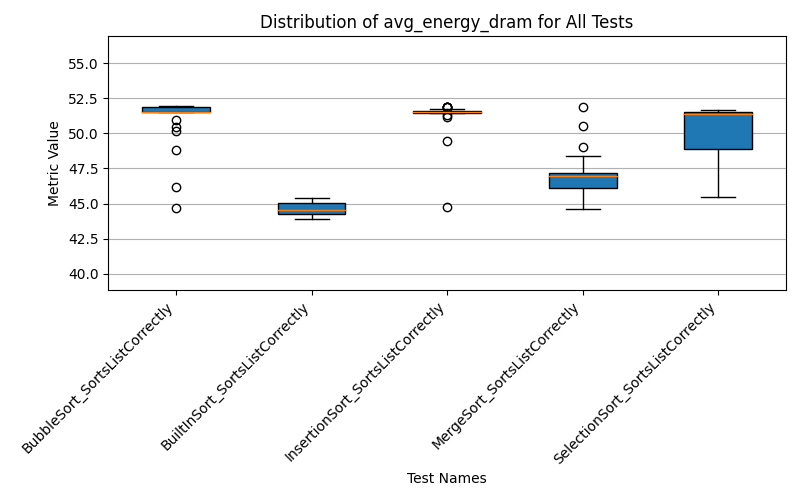
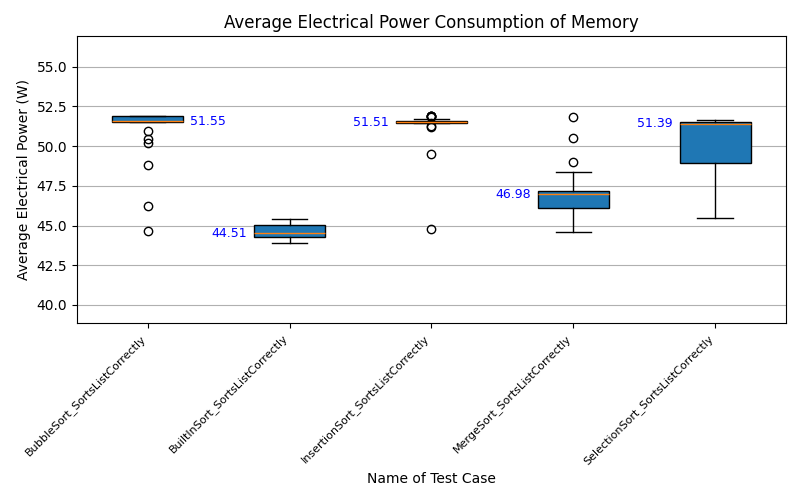
commit of local changes

diff --git a/CpuIntensiveApp/Plot-Data/plot_results_4_metric_boxplot.py b/CpuIntensiveApp/Plot-Data/plot_results_4_metric_boxplot.py
@@ -1,101 +1,91 @@
-# File path: boxplot_energy_consumption.py
-
 import pandas as pd
 import matplotlib.pyplot as plt
-from influxdb_client import InfluxDBClient
 import argparse
 
-# Parse command-line arguments to get the metric name
-parser = argparse.ArgumentParser(description='Query and plot energy consumption metric for all tests.')
-parser.add_argument('--metric', type=str, default='avg_energy_pkg', help='Metric to query (e.g., avg_energy_pkg)')
-parser.add_argument('--bucket', type=str, default='myBucket', help='Name of the Bucket to query from InfluxDb')
+# Parse command-line arguments to get the metric name and CSV file
+parser = argparse.ArgumentParser(description='Plot energy consumption metric from CSV file.')
+parser.add_argument('--metric', type=str, default='duration', help='Metric to plot (e.g., avg_energy_pkg)')
+parser.add_argument('--csv', type=str, default='output.csv', help='Path to the CSV file with data')
 args = parser.parse_args()
 
-# InfluxDB connection details
-url = "http://localhost:8086"
-token = "N9mKfB0tAgaQHk5h0MxIaBHE3tshaLH7a-qTvPIKe3XuZyLnugd5a8KnqHtt98FcsGi9g9l3eOBjphdoiaoOCw=="
-org = "MA"
+# Load data from the CSV file
+try:
+    df = pd.read_csv(args.csv)
+except FileNotFoundError:
+    print(f"Error: File '{args.csv}' not found.")
+    exit(1)
 
-# Use the values from the command-line argument
+# Ensure the specified metric exists in the data as a value in '_field'
 metric = args.metric
-bucket = args.bucket
+if '_field' not in df.columns or '_value' not in df.columns:
+    print("Error: The required '_field' or '_value' columns are missing in the CSV file.")
+    exit(1)
 
-# Create an InfluxDB client
-client = InfluxDBClient(url=url, token=token, org=org)
+# Filter data for the specified metric
+filtered_df = df[df['_field'] == metric]
+if filtered_df.empty:
+    print(f"Error: No data found for metric '{metric}' in the CSV file.")
+    exit(1)
 
-# Define the Flux query for all tests but only for the selected metric
-query = f'''
-from(bucket: "{bucket}")
-  |> range(start: -300m)
-  |> filter(fn: (r) => r._measurement == "unit_test_energy" and r._field == "{metric}")
-  |> pivot(rowKey:["_time"], columnKey: ["_field"], valueColumn: "_value")
-  |> sort(columns: ["_time"])
-'''
+# Drop unnecessary columns if they exist
+drop_columns = ['_start', '_stop', '_measurement', '_time', '_field']
+filtered_df = filtered_df.drop(columns=[col for col in drop_columns if col in filtered_df.columns], errors='ignore')
 
-# Execute the query and convert the result into a pandas DataFrame
-result = client.query_api().query_data_frame(query)
-df = pd.DataFrame(result)
+# List of test names to exclude from the graph
+excluded_tests = ['idle_consumption', 'SleepingTest', 'Sort_SortsListCorrectly', 'Sort_SortsListCorrectly4']
 
-if df.empty:
-    print(f"No data found for metric: {metric}")
+# Filter out excluded tests if 'test_name' column exists
+if 'test_name' in filtered_df.columns:
+    filtered_df = filtered_df[~filtered_df['test_name'].isin(excluded_tests)]
+    boxplot_data = [group['_value'].dropna() for test_name, group in filtered_df.groupby('test_name')]
+    labels = filtered_df['test_name'].unique()
 else:
-    print(df.columns)
+    print("Error: 'test_name' column not found in the CSV file.")
+    exit(1)
 
-    # Drop unnecessary columns if they exist
-    df = df.drop(columns=['_start', '_stop', '_measurement', '_time'], errors='ignore')
+# Adjust figure size for compactness
+plt.figure(figsize=(8, 5))  # Compact dimensions
 
-    # List of test names to exclude from the graph
-    excluded_tests = ['idle_consumption', 'SleepingTest', 'Sort_SortsListCorrectly', 'Sort_SortsListCorrectly4']
+# Create the boxplot
+box = plt.boxplot(boxplot_data, vert=True, patch_artist=True, labels=labels)
 
-    # Filter out excluded tests
-    df = df[~df['test_name'].isin(excluded_tests)]
+# Adding labels and title
+plt.xlabel('Name of Test Case')
+plt.ylabel('Duration (s)')
+plt.xticks(rotation=45, ha='right', fontsize=8)  # Rotate test names for better readability
+plt.title('Duration for Test Cases')
+plt.grid(axis='y')
 
-    # Group data by 'test_name' and prepare for boxplot
-    boxplot_data = [group[metric].dropna() for test_name, group in df.groupby('test_name')]
+# Manually adjust y-axis if needed
+all_values = pd.concat(boxplot_data)  # Combine all data to find min and max
+plt.ylim(all_values.min() - 5, all_values.max() + 5)  # Add padding around actual data
 
-    # Adjust figure size for compactness
-    plt.figure(figsize=(8, 5))  # Compact dimensions
+# Label medians dynamically
+for i, median_line in enumerate(box['medians']):
+    median_value = median_line.get_ydata()[0]
 
-    # Create the boxplot
-    box = plt.boxplot(boxplot_data, vert=True, patch_artist=True, labels=df['test_name'].unique())
-
-    # Adding labels and title
-    plt.xlabel('Test Names')
-    plt.ylabel('Metric Value')
-    plt.title(f'Distribution of {metric} for All Tests')
-    plt.xticks(rotation=45, ha='right')  # Rotate test names for better readability
-    plt.grid(axis='y')
-
-    # Manually adjust y-axis if needed
-    all_values = pd.concat(boxplot_data)  # Combine all data to find min and max
-    plt.ylim(all_values.min() - 5, all_values.max() + 5)  # Add padding around actual data
-
-    # Label medians with dynamic placement
-    for i, median_line in enumerate(box['medians']):
-        median_value = median_line.get_ydata()[0]  # Get the median value
-        q1 = box['boxes'][i].get_ydata()[1]       # Lower quartile (Q1)
-        q3 = box['boxes'][i].get_ydata()[2]       # Upper quartile (Q3)
-
-        # Determine vertical alignment dynamically
-        if abs(median_value - q1) < abs(median_value - q3):
-            # Closer to Q1, label above the median
-            va = 'bottom'
-            offset = 2  # Small vertical offset
-        else:
-            # Closer to Q3, label below the median
-            va = 'top'
-            offset = -2  # Small vertical offset
-
-        # Add text annotation
+    # Position the median label
+    if i == 0:  # For the leftmost boxplot
         plt.text(
-            i + 1,  # X-coordinate (box index + 1 since it starts at 1)
-            median_value + offset,  # Adjust Y-coordinate based on offset
-            f'{median_value:.2f}',  # Text to display (rounded to 2 decimals)
-            horizontalalignment='center',  # Center align text
-            verticalalignment=va,  # Dynamic alignment
+            i + 1 + 0.3,  # Slightly to the right of the median line
+            median_value,
+            f'{median_value:.2f}',
+            horizontalalignment='left',
+            verticalalignment='center',
+            fontsize=9, color='blue'
+        )
+    else:  # For all other boxplots
+        plt.text(
+            i + 1 - 0.3,  # Slightly to the left of the median line
+            median_value,
+            f'{median_value:.2f}',
+            horizontalalignment='right',
+            verticalalignment='center',
             fontsize=9, color='blue'
         )
 
-    # Tight layout with adjusted margins for compactness
-    plt.tight_layout(pad=1.0)  # Reduce padding to make the plot more compact
-    plt.savefig(f'boxplot_{metric}.png')
+# Tight layout with adjusted margins for compactness
+plt.tight_layout(pad=1.0)  # Reduce padding to make the plot more compact
+plt.savefig(f'boxplot_{metric}.png')
+plt.show()
+print(f"Boxplot saved as 'boxplot_{metric}.png'.")

diff --git a/CpuIntensiveApp.Tests/SorterTests.cs b/CpuIntensiveApp.Tests/SorterTests.cs
@@ -63,7 +63,7 @@ public class SorterTests : IClassFixture<TestWrapper>
 		Assert.Equal(expectedList, sortedList);
 	}
 
-	[LogEnergyConsumption]
+	/*[LogEnergyConsumption]
 	[Fact]
 	public void BuiltInSort_SortsListCorrectly()
 	{
@@ -74,7 +74,7 @@ public class SorterTests : IClassFixture<TestWrapper>
 		Assert.Equal(_expectedList, sortedList);
 	}
 
-	/*[LogEnergyConsumption]
+	[LogEnergyConsumption]
 	[Fact]
 	public void Sort_SortsListCorrectly3()
 	{
@@ -91,7 +91,7 @@ public class SorterTests : IClassFixture<TestWrapper>
 		Assert.Equal(expectedList, sortedList);
 	} */
 
-	[LogEnergyConsumption]
+	/*[LogEnergyConsumption]
 	[Fact]
 	public void MergeSort_SortsListCorrectly()
 	{
@@ -109,7 +109,7 @@ public class SorterTests : IClassFixture<TestWrapper>
 		Assert.Equal(_expectedList, sortedList);
 	}
 
-	/*[LogEnergyConsumption]
+	[LogEnergyConsumption]
 	[Fact]
 	public void SleepingTest()
 	{
@@ -130,11 +130,67 @@ public class SorterTests : IClassFixture<TestWrapper>
 
 	[LogEnergyConsumption]
 	[Fact]
-	public void InsertionSort_SortsListCorrectly()
+	public void InsertionSort_10Entries()
 	{
-		var sortedList = Sorter.InsertionSort(_unsortedList);
+		const int arrayLength = 10; // Change this value to test different lengths
+		var random = new Random();
+		var unsortedList = Enumerable.Range(1, arrayLength).OrderBy(_ => random.Next()).ToList();
+		var expectedList = Enumerable.Range(1, arrayLength).ToList();
+		var sortedList = Sorter.InsertionSort(unsortedList);
 
-		Assert.Equal(_expectedList, sortedList);
+		Assert.Equal(expectedList, sortedList);
+	}
+	
+	[LogEnergyConsumption]
+	[Fact]
+	public void InsertionSort_100Entries()
+	{
+		const int arrayLength = 100; // Change this value to test different lengths
+		var random = new Random();
+		var unsortedList = Enumerable.Range(1, arrayLength).OrderBy(_ => random.Next()).ToList();
+		var expectedList = Enumerable.Range(1, arrayLength).ToList();
+		var sortedList = Sorter.InsertionSort(unsortedList);
+
+		Assert.Equal(expectedList, sortedList);
+	}	
+	
+	[LogEnergyConsumption]
+	[Fact]
+	public void InsertionSort_1000Entries()
+	{
+		const int arrayLength = 1000; // Change this value to test different lengths
+		var random = new Random();
+		var unsortedList = Enumerable.Range(1, arrayLength).OrderBy(_ => random.Next()).ToList();
+		var expectedList = Enumerable.Range(1, arrayLength).ToList();
+		var sortedList = Sorter.InsertionSort(unsortedList);
+
+		Assert.Equal(expectedList, sortedList);
+	}	
+	
+	[LogEnergyConsumption]
+	[Fact]
+	public void InsertionSort_10000Entries()
+	{
+		const int arrayLength = 10000; // Change this value to test different lengths
+		var random = new Random();
+		var unsortedList = Enumerable.Range(1, arrayLength).OrderBy(_ => random.Next()).ToList();
+		var expectedList = Enumerable.Range(1, arrayLength).ToList();
+		var sortedList = Sorter.InsertionSort(unsortedList);
+
+		Assert.Equal(expectedList, sortedList);
+	}	
+	
+	[LogEnergyConsumption]
+	[Fact]
+	public void InsertionSort_100000Entries()
+	{
+		const int arrayLength = 100000; // Change this value to test different lengths
+		var random = new Random();
+		var unsortedList = Enumerable.Range(1, arrayLength).OrderBy(_ => random.Next()).ToList();
+		var expectedList = Enumerable.Range(1, arrayLength).ToList();
+		var sortedList = Sorter.InsertionSort(unsortedList);
+
+		Assert.Equal(expectedList, sortedList);
 	}
 	
 

diff --git a/CpuIntensiveApp/Plot-Data/calculate_total_consumption.py b/CpuIntensiveApp/Plot-Data/calculate_total_consumption.py
@@ -1,0 +1,56 @@
+import pandas as pd
+
+# Load the CSV file
+csv_path = 'output.csv'  # Replace with your actual file path
+try:
+    df = pd.read_csv(csv_path)
+except FileNotFoundError:
+    print(f"Error: File '{csv_path}' not found.")
+    exit(1)
+
+# Ensure the required columns exist
+required_columns = ['_field', '_value', 'test_name', '_time']
+if not all(column in df.columns for column in required_columns):
+    print(f"Error: The CSV file must contain the following columns: {required_columns}")
+    exit(1)
+
+# Filter rows for relevant energy fields
+energy_fields = ['total_energy_pkg', 'total_energy_dram']
+energy_df = df[df['_field'].isin(energy_fields)]
+
+# Pivot the table to have energy fields as columns
+pivoted = energy_df.pivot_table(
+    index=['test_name', '_time'],  # Use both test_name and _time to group by unique runs
+    columns='_field',
+    values='_value',
+    aggfunc='sum',
+    fill_value=0
+).reset_index()
+
+# Ensure both energy fields exist (even if they weren't in the data)
+pivoted = pivoted.reindex(columns=['test_name', '_time'] + energy_fields, fill_value=0)
+
+# Calculate the total consumed energy for each run
+pivoted['total_energy'] = pivoted['total_energy_pkg'] + pivoted['total_energy_dram']
+
+# Group by test_name to calculate sums and averages
+results = pivoted.groupby('test_name').agg(
+    total_energy_sum=('total_energy', 'sum'),
+    entry_count=('_time', 'count'),  # Count unique runs by `_time`
+).reset_index()
+
+# Calculate average energy
+results['average_energy'] = results['total_energy_sum'] / results['entry_count']
+
+# Display results
+print("Test Case Energy Consumption Summary:")
+print(results[['test_name', 'total_energy_sum', 'entry_count', 'average_energy']])
+
+# Example formatting for better readability (optional)
+print("\nFormatted Results:")
+for _, row in results.iterrows():
+    print(f"Test Case: {row['test_name']}")
+    print(f"  Total Energy Sum: {row['total_energy_sum']:.2f}")
+    print(f"  Entry Count: {row['entry_count']}")
+    print(f"  Average Energy: {row['average_energy']:.2f}")
+    print("-" * 40)

diff --git a/CpuIntensiveApp/Plot-Data/print_metric.py b/CpuIntensiveApp/Plot-Data/print_metric.py
@@ -1,0 +1,53 @@
+import pandas as pd
+
+# Load the CSV file
+csv_path = 'output.csv'  # Replace with your actual file path
+try:
+    df = pd.read_csv(csv_path)
+except FileNotFoundError:
+    print(f"Error: File '{csv_path}' not found.")
+    exit(1)
+
+# Ensure the required columns exist
+required_columns = ['_field', '_value', 'test_name', '_time']
+if not all(column in df.columns for column in required_columns):
+    print(f"Error: The CSV file must contain the following columns: {required_columns}")
+    exit(1)
+
+# Filter rows for the duration field
+duration_field = 'duration'
+duration_df = df[df['_field'] == duration_field]
+
+# Pivot the table to have the duration field as a column
+pivoted = duration_df.pivot_table(
+    index=['test_name', '_time'],  # Use both test_name and _time to group by unique runs
+    columns='_field',
+    values='_value',
+    aggfunc='sum',
+    fill_value=0
+).reset_index()
+
+# Rename the column for clarity (optional)
+pivoted = pivoted.rename(columns={duration_field: 'duration'})
+
+# Group by test_name to calculate sums and averages
+results = pivoted.groupby('test_name').agg(
+    total_duration_sum=('duration', 'sum'),
+    entry_count=('_time', 'count'),  # Count unique runs by `_time`
+).reset_index()
+
+# Calculate average duration
+results['average_duration'] = results['total_duration_sum'] / results['entry_count']
+
+# Display results
+print("Test Case Duration Summary:")
+print(results[['test_name', 'total_duration_sum', 'entry_count', 'average_duration']])
+
+# Example formatting for better readability (optional)
+print("\nFormatted Results:")
+for _, row in results.iterrows():
+    print(f"Test Case: {row['test_name']}")
+    print(f"  Total Duration Sum: {row['total_duration_sum']:.6f}")
+    print(f"  Entry Count: {row['entry_count']}")
+    print(f"  Average Duration: {row['average_duration']:.6f}")
+    print("-" * 40)

diff --git a/CpuIntensiveApp/Plot-Data/plot_results_4_metric.py b/CpuIntensiveApp/Plot-Data/plot_results_4_metric.py
@@ -13,6 +13,7 @@ args = parser.parse_args()
 url = "http://localhost:8086"
 token = "N9mKfB0tAgaQHk5h0MxIaBHE3tshaLH7a-qTvPIKe3XuZyLnugd5a8KnqHtt98FcsGi9g9l3eOBjphdoiaoOCw=="
 org = "MA"
+bucket = "myBucket"
 
 # Use the values from the command-line argument
 metric = args.metric
